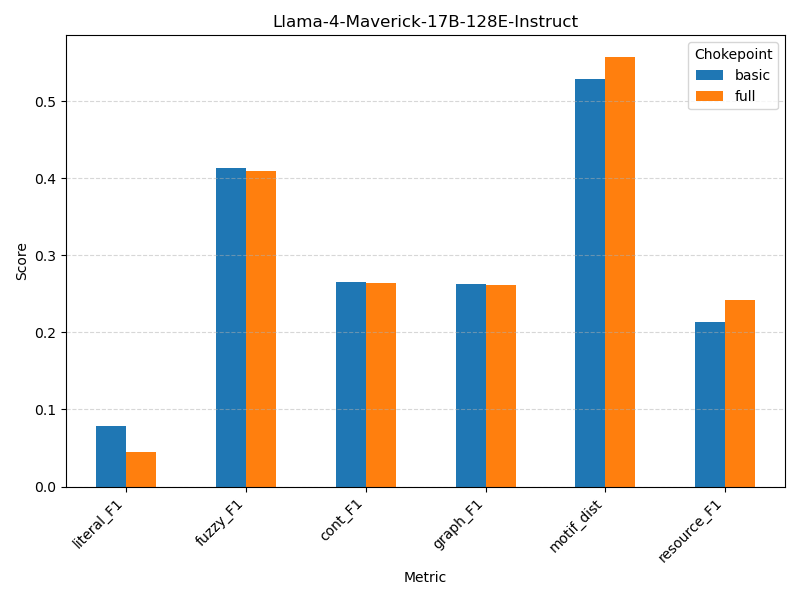
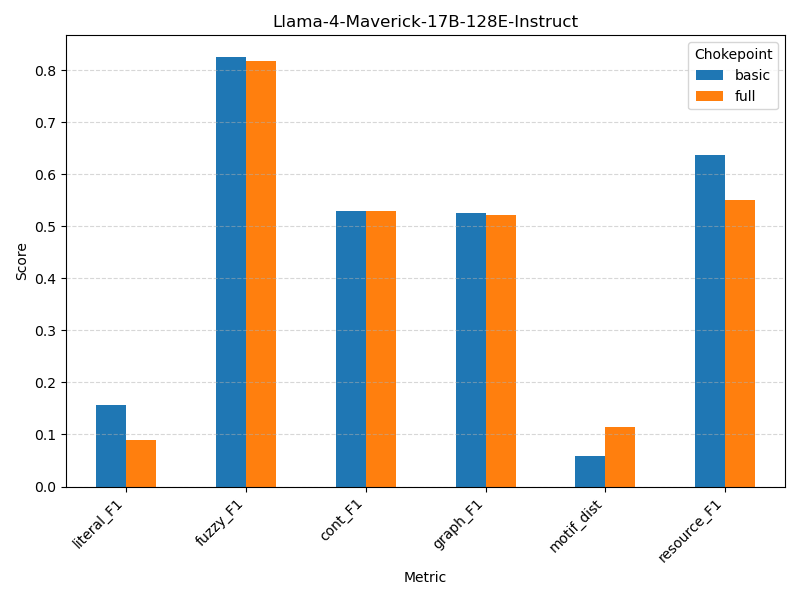
pruebas finales graficadas

diff --git a/metrics.py b/metrics.py
@@ -442,7 +442,7 @@ def _local(txt: str) -> str:
     return _CAMEL_RE.sub(' ', txt).replace('_', ' ').lower().strip()
 
 # --- 1) convertir cada entidad en texto natural --------------------------------
-def _collect_entity_texts(G: nx.DiGraph) -> dict:
+def _collect_resource_texts(G: nx.DiGraph) -> dict:
     ent_texts = {}
 
     for node in G.nodes():
@@ -537,7 +537,7 @@ def resource_f1(
     G_pred: nx.DiGraph,
     G_true: nx.DiGraph,
     model_name: str = 'all-MiniLM-L6-v2',
-    threshold: float = 0.85,
+    threshold: float = 0.6,
 ) -> tuple[float, float, float]:
     """
     Calcula (precision, recall, F1) continuos entre dos ontologías OWL
@@ -550,8 +550,8 @@ def resource_f1(
     Returns:
         (precision, recall, F1)
     """
-    ent_pred = _collect_entity_texts(G_pred)
-    ent_true = _collect_entity_texts(G_true)
+    ent_pred = _collect_resource_texts(G_pred)
+    ent_true = _collect_resource_texts(G_true)
 
     if not ent_pred or not ent_true:
         return 0.0, 0.0, 0.
@@ -581,7 +581,7 @@ def resource_f1(
     scont = 0
     for n in range(len(entMatched)):
         if entMatched[n][2] > threshold:
-            scont += _sim_atributos(model, entMatched[n][0]["atributos"], entMatched[n][0]["atributos"])
+            scont += _sim_atributos(model, entMatched[n][0]["atributos"], entMatched[n][1]["atributos"])
 
     precision = scont / len(nodes_pred)
     recall    = scont / len(nodes_true)
